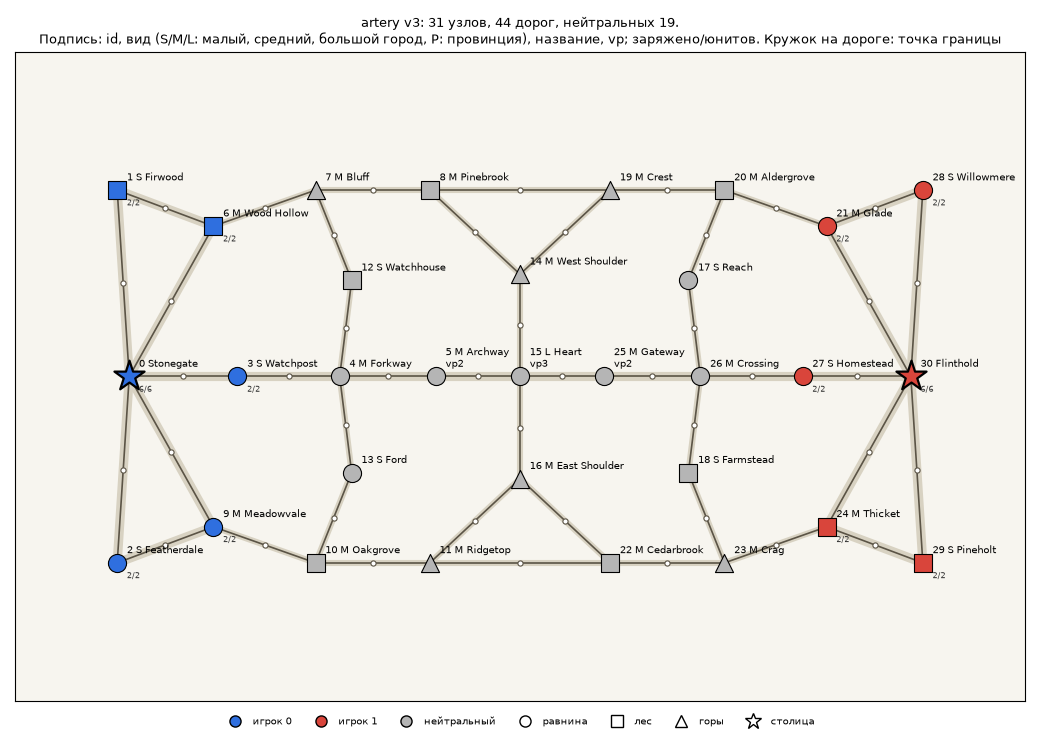
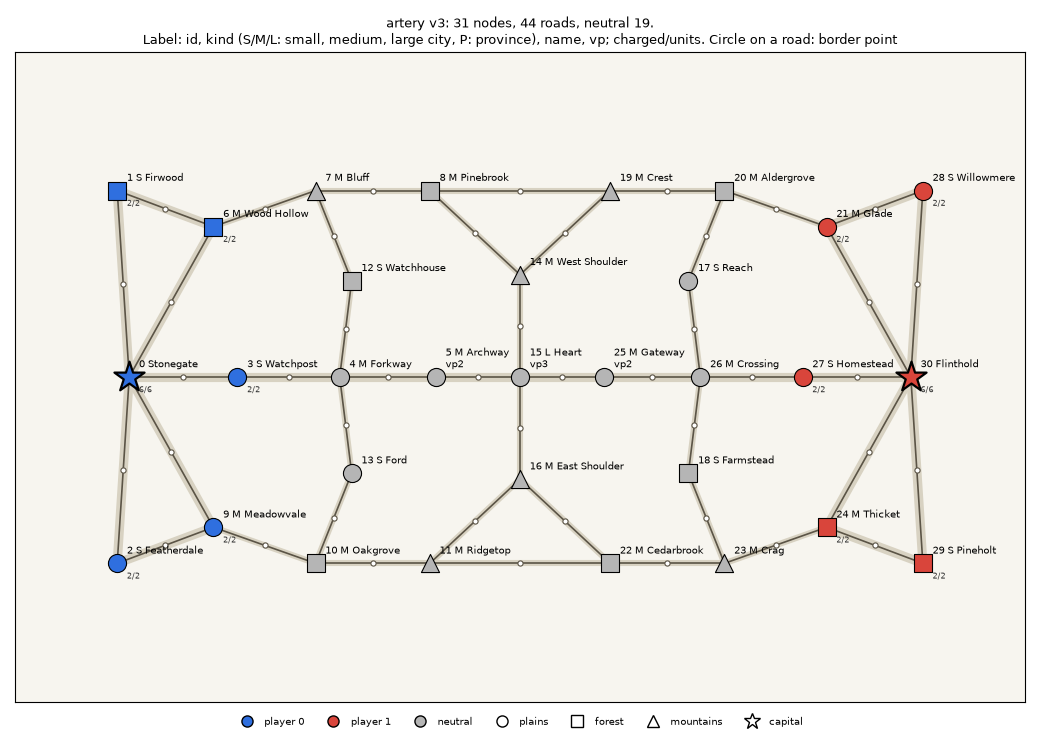
feat(maps): rename the sim test map pass to choke, English map preview captions (#390)
The real map pereval became pass and clashed with the tiny test map of the
same name (duplicate key in the dev screen). The preview captions and the
validator test names are English now.

diff --git a/apps/client/src/map/bundledMaps.ts b/apps/client/src/map/bundledMaps.ts
@@ -22,9 +22,9 @@ const testMaps = byName(testFiles);
 
 export const BUNDLED_MAPS: readonly MapFile[] = [...mvpMaps, ...testMaps];
 
-/** The map the dev screen opens with: the first MVP map, or the "pass" test map before MAP-04. */
+/** The map the dev screen opens with: the first MVP map, or the "choke" test map before MAP-04. */
 export const DEFAULT_MAP: MapFile = (() => {
-  const map = mvpMaps[0] ?? testMaps.find((m) => m.meta.name === 'pass') ?? testMaps[0];
+  const map = mvpMaps[0] ?? testMaps.find((m) => m.meta.name === 'choke') ?? testMaps[0];
   if (map === undefined) {
     throw new Error(
       'no maps are bundled: maps/*.json and packages/sim/tests/maps/*.json are empty',

diff --git a/packages/sim/tests/test_vision.py b/packages/sim/tests/test_vision.py
@@ -92,7 +92,7 @@ def test_diamond_start(rules: Ruleset) -> None:
 
 
 def test_pass_start(rules: Ruleset) -> None:
-    state = _state("pass", rules)
+    state = _state("choke", rules)
     # Mountains from the forest: presence only.
     assert _levels(state, 0) == ([E, E, F, P, F, F, F], [P, P, F, F, F, F])
     assert _levels(state, 1) == ([F, F, F, P, F, E, E], [F, F, F, P, P, F])
@@ -100,7 +100,7 @@ def test_pass_start(rules: Ruleset) -> None:
 
 def test_standing_group_makes_its_node_exact(rules: Ruleset) -> None:
     # A group of player 0 stands in the neutral pass node 3 (ownership unchanged).
-    state = _state("pass", rules)
+    state = _state("choke", rules)
     _add(state, 0, AtNode(3))
     assert state.nodes[3].owner is None
     # From the mountains of 3: mountains 2 and 4 a range, forest 5 a range.
@@ -112,7 +112,7 @@ def test_standing_group_makes_its_node_exact(rules: Ruleset) -> None:
 def test_group_on_edge_gives_no_vision(rules: Ruleset) -> None:
     # TODO(#112): default of the question, literal DEC-04. Player 0 lost both of its nodes; its
     # group on e1 (1 -> 3) stands nowhere, so it sees nothing, not even its own edge.
-    state = _state("pass", rules)
+    state = _state("choke", rules)
     state.nodes[0].owner = 1
     state.nodes[1].owner = 1
     state.groups.clear()
@@ -134,7 +134,7 @@ def test_single_node_and_edge_queries(rules: Ruleset) -> None:
 
 
 def test_levels_are_mirror_symmetric(rules: Ruleset) -> None:
-    for name in ("line3", "diamond", "pass"):
+    for name in ("line3", "diamond", "choke"):
         state = _state(name, rules)
         mapdef = state.map
         v0, v1 = compute_vision(state, rules, 0), compute_vision(state, rules, 1)
@@ -150,7 +150,7 @@ def test_levels_are_mirror_symmetric(rules: Ruleset) -> None:
 
 
 def test_enemy_groups_in_nodes(rules: Ruleset) -> None:
-    state = _state("pass", rules)
+    state = _state("choke", rules)
     in_presence = _add(state, 1, AtNode(3))  # neighbour of own node 1
     in_fog = _add(state, 1, AtNode(4))
     in_exact = _add(state, 1, AtNode(1))  # enemy group inside own node 1
@@ -163,7 +163,7 @@ def test_enemy_groups_in_nodes(rules: Ruleset) -> None:
 
 
 def test_enemy_groups_on_edges(rules: Ruleset) -> None:
-    state = _state("pass", rules)
+    state = _state("choke", rules)
     # e1 = 1 - 3: in the half of 3 (presence) and in the half of the own node 1.
     in_half_3 = _add(state, 1, OnEdge(edge=1, from_node=3, progress=200))
     in_half_1 = _add(state, 1, OnEdge(edge=1, from_node=3, progress=700))
@@ -185,7 +185,7 @@ def test_enemy_groups_on_edges(rules: Ruleset) -> None:
 
 
 def test_own_entities_are_always_visible(rules: Ruleset) -> None:
-    state = _state("pass", rules)
+    state = _state("choke", rules)
     far_group = _add(state, 0, OnEdge(edge=3, from_node=5, progress=10))  # e3: 5 - 6, fog
     pid = state.new_id()
     packet = Packet(pid, 0, edge=3, from_node=5, charges=1, depart_tick=0, arrive_tick=5)
@@ -196,14 +196,14 @@ def test_own_entities_are_always_visible(rules: Ruleset) -> None:
 
 def test_enemy_packets_are_never_visible(rules: Ruleset) -> None:
     # TODO(#112): default of the question. e0 joins the two own nodes of player 0.
-    state = _state("pass", rules)
+    state = _state("choke", rules)
     packet = Packet(state.new_id(), 1, edge=0, from_node=0, charges=2, depart_tick=0, arrive_tick=9)
     assert edge_detail_level(state, 0, 0) is P
     assert not is_visible(state, rules, 0, packet)
 
 
 def test_intents_are_public(rules: Ruleset) -> None:
-    state = _state("pass", rules)
+    state = _state("choke", rules)
     far = Intent(state.new_id(), 1, IntentKind.PLANNED_MOVE, origin=6, target=5, created_tick=0)
     defense = Intent(state.new_id(), 1, IntentKind.DEFENSE, origin=6, target=None, created_tick=0)
     assert detail_level(state, rules, 0, 6) is F
@@ -215,7 +215,7 @@ def test_intents_are_public(rules: Ruleset) -> None:
 
 
 def test_vision_records_sightings(rules: Ruleset) -> None:
-    state = _state("pass", rules)
+    state = _state("choke", rules)
     state.tick = 40
     _add(state, 1, AtNode(3), Mode.DEFENSE)
     _add(state, 1, AtNode(3), Mode.ATTACK)
@@ -254,7 +254,7 @@ def test_range_sighting_has_the_range_of_the_units(rules: Ruleset) -> None:
 
 
 def test_exact_sighting_has_enemy_totals(rules: Ruleset) -> None:
-    state = _state("pass", rules)
+    state = _state("choke", rules)
     state.tick = 7
     _add(state, 1, AtNode(1), Mode.ATTACK)  # 3 units, 2 charged
     _add(state, 1, AtNode(1), Mode.DEFENSE)
@@ -263,7 +263,7 @@ def test_exact_sighting_has_enemy_totals(rules: Ruleset) -> None:
 
 
 def test_memory_keeps_last_sighting_in_fog(rules: Ruleset) -> None:
-    state = _state("pass", rules)
+    state = _state("choke", rules)
     state.tick = 10
     _add(state, 1, AtNode(3), Mode.DEFENSE)
     vision(state, rules)

diff --git a/tools/maps/tests/test_mirror.py b/tools/maps/tests/test_mirror.py
@@ -23,7 +23,7 @@ def _json(path: Path) -> Any:
     return json.loads(path.read_text(encoding="utf-8"))
 
 
-@pytest.mark.parametrize("name", ["line3", "pass"])
+@pytest.mark.parametrize("name", ["line3", "choke"])
 def test_half_reproduces_hand_made_test_map(name: str) -> None:
     # The MAP-01 test maps were written by hand with the same id scheme.
     full = mirror_half(_json(HALVES / f"{name}.half.json"), CONFIG)
@@ -54,8 +54,8 @@ def test_self_mirrored_cross_edge() -> None:
 
 def test_names_of_the_half_and_the_copy() -> None:
     # DEC-23, item 8: the half node has name and mirror_name, the centre node only name.
-    mapdef = parse_map(mirror_half(_json(HALVES / "pass.half.json"), CONFIG))
-    half = _json(HALVES / "pass.half.json")["nodes"]
+    mapdef = parse_map(mirror_half(_json(HALVES / "choke.half.json"), CONFIG))
+    half = _json(HALVES / "choke.half.json")["nodes"]
     names = [n.name for n in mapdef.nodes]
     assert names[:3] == [n["name"] for n in half[:3]]
     assert names[4:] == [n["mirror_name"] for n in reversed(half[:3])]
@@ -122,7 +122,7 @@ def test_missing_travel_ticks_from_the_mean_length() -> None:
 
 def test_self_mirror_flag() -> None:
     # DEC-27, item 6: a self-mirrored node anywhere, not only at the exact centre.
-    half = _json(HALVES / "pass.half.json")
+    half = _json(HALVES / "choke.half.json")
     half["nodes"][3] |= {"self_mirror": True, "x": 320, "y": 190}  # the pass, off the centre
     mapdef = parse_map(mirror_half(half, CONFIG))
     assert len(mapdef.nodes) == 7
@@ -132,7 +132,7 @@ def test_self_mirror_flag() -> None:
 
 
 def test_road_between_two_self_mirrored_nodes_is_written_once() -> None:
-    half = _json(HALVES / "pass.half.json")
+    half = _json(HALVES / "choke.half.json")
     second = {**half["nodes"][3], "id": "ridge", "name": "ridge", "x": 300, "y": 300}
     half["nodes"].append(second | {"self_mirror": True})
     half["edges"].append({"a": "pass", "b": "ridge", "max_level": 1})
@@ -145,7 +145,7 @@ def test_road_between_two_self_mirrored_nodes_is_written_once() -> None:
 
 
 def test_dump_map_round_trips() -> None:
-    full = mirror_half(_json(HALVES / "pass.half.json"), CONFIG)
+    full = mirror_half(_json(HALVES / "choke.half.json"), CONFIG)
     assert json.loads(dump_map(full)) == full
 
 
@@ -196,14 +196,14 @@ def test_duplicate_cross_edge_is_rejected() -> None:
 
 
 def test_centre_node_in_cross_edge_is_rejected() -> None:
-    half = _json(HALVES / "pass.half.json")
+    half = _json(HALVES / "choke.half.json")
     half["cross_edges"] = [{"a": "front", "b": "pass", "max_level": 1}]
     with pytest.raises(HalfFormatError, match="the centre node joins the other half"):
         mirror_half(half, CONFIG)
 
 
 def test_two_centre_nodes_are_rejected() -> None:
-    half = _json(HALVES / "pass.half.json")
+    half = _json(HALVES / "choke.half.json")
     half["nodes"].append({**half["nodes"][3], "id": "second"})
     with pytest.raises(HalfFormatError, match="only one node can stand at the centre"):
         mirror_half(half, CONFIG)

diff --git a/tools/maps/src/gow_maps/preview.py b/tools/maps/src/gow_maps/preview.py
@@ -13,7 +13,7 @@ from matplotlib.lines import Line2D
 from gow_sim.maps import MapDef, NodeKind, Terrain
 
 _OWNER_COLOUR = {0: "#2f6fdf", 1: "#d9453b", None: "#b5b5b5"}
-_OWNER_LABEL = {0: "игрок 0", 1: "игрок 1", None: "нейтральный"}
+_OWNER_LABEL = {0: "player 0", 1: "player 1", None: "neutral"}
 # Terrain is shown by shape, the owner by colour: the preview does not rely on colour alone.
 _TERRAIN_MARKER = {Terrain.PLAINS: "o", Terrain.FOREST: "s", Terrain.MOUNTAINS: "^"}
 _KIND_MARK = {
@@ -23,7 +23,11 @@ _KIND_MARK = {
     NodeKind.CITY_SMALL: " S",
     NodeKind.PROVINCE: " P",
 }
-_TERRAIN_LABEL = {Terrain.PLAINS: "равнина", Terrain.FOREST: "лес", Terrain.MOUNTAINS: "горы"}
+_TERRAIN_LABEL = {
+    Terrain.PLAINS: "plains",
+    Terrain.FOREST: "forest",
+    Terrain.MOUNTAINS: "mountains",
+}
 
 
 def preview_path(map_path: str | Path) -> Path:
@@ -129,7 +133,7 @@ def render_preview(mapdef: MapDef, out: str | Path) -> None:
             markersize=12,
             markerfacecolor="white",
             markeredgecolor="black",
-            label="столица",
+            label="capital",
         )
     )
     ax.legend(
@@ -142,10 +146,10 @@ def render_preview(mapdef: MapDef, out: str | Path) -> None:
     )
     neutral = sum(1 for n in mapdef.nodes if n.start_owner is None)
     ax.set_title(
-        f"{mapdef.meta.name} v{mapdef.meta.version}: {len(mapdef.nodes)} узлов, "
-        f"{len(mapdef.edges)} дорог, нейтральных {neutral}.\n"
-        "Подпись: id, вид (S/M/L: малый, средний, большой город, P: провинция), название, vp;"
-        " заряжено/юнитов. Кружок на дороге: точка границы",
+        f"{mapdef.meta.name} v{mapdef.meta.version}: {len(mapdef.nodes)} nodes, "
+        f"{len(mapdef.edges)} roads, neutral {neutral}.\n"
+        "Label: id, kind (S/M/L: small, medium, large city, P: province), name, vp;"
+        " charged/units. Circle on a road: border point",
         fontsize=9,
     )
     fig.tight_layout()

diff --git a/packages/sim/tests/test_symmetry.py b/packages/sim/tests/test_symmetry.py
@@ -7,7 +7,7 @@ anything: each of its commands is the rot180 mirror of player 0's command with t
 groups of the two players are paired by the ``seq`` of the command that made them.
 
 The loop is the full ``Match.step`` (SIM-15): every system in the fixed order, including
-``build``, ``orders`` and ``victory``. Fights (DEC-07, SIM-09) happen: on ``pass`` both players
+``build``, ``orders`` and ``victory``. Fights (DEC-07, SIM-09) happen: on ``choke`` both players
 reach the central node 3 at once. Public intents and bonuses are compared mirrored too. If the
 match ends, it ends symmetrically: a draw.
 Tie-breaks by group id inside a player stay mirrored because the pairing of groups keeps the id
@@ -60,7 +60,7 @@ MAPS = [
     ROOT / "maps" / "crossroads.json",
     ROOT / "maps" / "highway.json",
     TESTS_DIR / "maps" / "diamond.json",
-    TESTS_DIR / "maps" / "pass.json",
+    TESTS_DIR / "maps" / "choke.json",
 ]
 TICKS = 600
 DECIDE_EVERY = 5
@@ -477,8 +477,8 @@ def test_mirrored_commands_give_the_mirrored_state(path: Path, rules: Ruleset) -
     if rules.city_upgrades.enabled:  # DEC-26: the city development is mirrored as well
         assert {"BuildBarracks", "UpgradeWarehouse"} <= set(kinds)
     assert moves_on_edges > 0
-    # On pass the only way out is the central node 3; both players reach it at once and fight
+    # On choke the only way out is the central node 3; both players reach it at once and fight
     # there (DEC-07, rule 5; DEC-24) with equal sides, so both bounce and nothing is captured.
-    assert captures >= (0 if path.stem == "pass" else 2)
-    if path.stem == "pass":
+    assert captures >= (0 if path.stem == "choke" else 2)
+    if path.stem == "choke":
         assert fights > 0

diff --git a/packages/sim/tests/test_commands.py b/packages/sim/tests/test_commands.py
@@ -13,7 +13,7 @@ Expected values come from the rules, not from the code:
 - Split, Merge, CancelOrder and commands to a moving or waiting group: DEC-20 (mechanics.md,
   section 3; the full table of its worked examples is ``test_dec20.py``).
 
-The map is ``tests/maps/pass.json``: 0 -e0- 1 -e1- 3, 3 -e2- 2, 3 -e5- 4, 3 -e4- 5 -e3- 6.
+The map is ``tests/maps/choke.json``: 0 -e0- 1 -e1- 3, 3 -e2- 2, 3 -e5- 4, 3 -e4- 5 -e3- 6.
 Player 0 owns 0 and 1, player 1 owns 5 and 6; 2, 3, 4 are neutral. Player 0 sees 0 and 1 exactly
 and 3 as presence (DEC-04); 2, 4, 5, 6 are in fog for it.
 """
@@ -119,7 +119,7 @@ MISSING = 999
 
 
 def _state() -> tuple[GameState, Ids]:
-    state = initial_state(load_map(TESTS_DIR / "maps" / "pass.json"), RULES)
+    state = initial_state(load_map(TESTS_DIR / "maps" / "choke.json"), RULES)
     state.tick = TICK
     by_node = {g.location: g.id for g in state.groups.values()}  # start garrisons, one per node
 

diff --git a/tools/maps/tests/test_validate.py b/tools/maps/tests/test_validate.py
@@ -91,7 +91,7 @@ def test_border_mirrored_with_the_direction(tmp_path: Path, config: ValidatorCon
     [
         ("", "[names] node 1: name '' is not 1..24"),
         ("x" * 25, "is not 1..24"),
-        (" Брод", "[names] node 1: name ' Брод' has spaces at the ends"),
+        (" Ford", "[names] node 1: name ' Ford' has spaces at the ends"),
     ],
 )
 def test_bad_names(tmp_path: Path, config: ValidatorConfig, name: str, issue: str) -> None:
@@ -104,7 +104,7 @@ def test_bad_names(tmp_path: Path, config: ValidatorConfig, name: str, issue: st
 
 def test_name_of_24_characters_passes(tmp_path: Path, config: ValidatorConfig) -> None:
     data = json.loads((REPO / "packages/sim/tests/maps/line3.json").read_text(encoding="utf-8"))
-    data["nodes"][1]["name"] = "Ж" * 24
+    data["nodes"][1]["name"] = "X" * 24
     assert validate_file(_write(tmp_path, "m.json", data), config) == []
 
 

diff --git a/packages/sim/tests/test_economy.py b/packages/sim/tests/test_economy.py
@@ -229,7 +229,7 @@ def test_full_warehouse_spills_everything() -> None:
 
 def test_capacity_does_not_count_internal_roads() -> None:
     # pass: capital 0 is joined to own node 1 by e0; roads add nothing (DEC-22): capacity 4.
-    state = initial_state(load_map(MAPS_DIR / "pass.json"), DEC02)
+    state = initial_state(load_map(MAPS_DIR / "choke.json"), DEC02)
     state.nodes[0].warehouse = 3
     state.edges[0].width = 3
     _run(state, 50, DEC02)

diff --git a/packages/sim/tests/test_properties.py b/packages/sim/tests/test_properties.py
@@ -93,7 +93,7 @@ RULESETS: Final[dict[str, Ruleset]] = {
 }
 KEY = bytes(range(32))
 
-TEST_MAPS: Final = ("line3", "diamond", "pass", "line6", "fork", "siege")
+TEST_MAPS: Final = ("line3", "diamond", "choke", "line6", "fork", "siege")
 MVP_MAPS: Final = ("artery", "web", "pass")
 MAPS: Final[dict[str, MapDef]] = {
     **{n: load_map(TESTS_DIR / "maps" / f"{n}.json") for n in TEST_MAPS},

diff --git a/packages/sim/tests/test_view.py b/packages/sim/tests/test_view.py
@@ -72,7 +72,7 @@ from gow_sim.view import (
 
 TESTS_DIR = Path(__file__).resolve().parent
 MVP0 = TESTS_DIR.parents[2] / "rulesets" / "mvp-0.toml"
-TEST_MAPS = ("line3", "diamond", "pass", "line6", "fork", "siege")
+TEST_MAPS = ("line3", "diamond", "choke", "line6", "fork", "siege")
 KEY = bytes(range(32))
 OTHER_KEY = bytes(range(1, 33))
 WIRE_ID = re.compile(r"[A-Za-z0-9_-]{1,32}")

diff --git a/packages/sim/tests/test_maps.py b/packages/sim/tests/test_maps.py
@@ -10,7 +10,7 @@ import pytest
 from gow_sim.maps import MapDef, MapFormatError, Terrain, load_map, parse_map
 
 MAPS_DIR = Path(__file__).parent / "maps"
-TEST_MAPS = ["line3", "diamond", "pass"]
+TEST_MAPS = ["line3", "diamond", "choke"]
 
 
 def _raw(name: str) -> dict[str, Any]:

diff --git a/packages/sim/tests/test_state.py b/packages/sim/tests/test_state.py
@@ -43,7 +43,7 @@ from gow_sim.state import (
 
 TESTS_DIR = Path(__file__).resolve().parent
 MAPS_DIR = TESTS_DIR / "maps"
-TEST_MAPS = ["line3", "diamond", "pass"]
+TEST_MAPS = ["line3", "diamond", "choke"]
 MVP0 = TESTS_DIR.parents[2] / "rulesets" / "mvp-0.toml"
 
 
